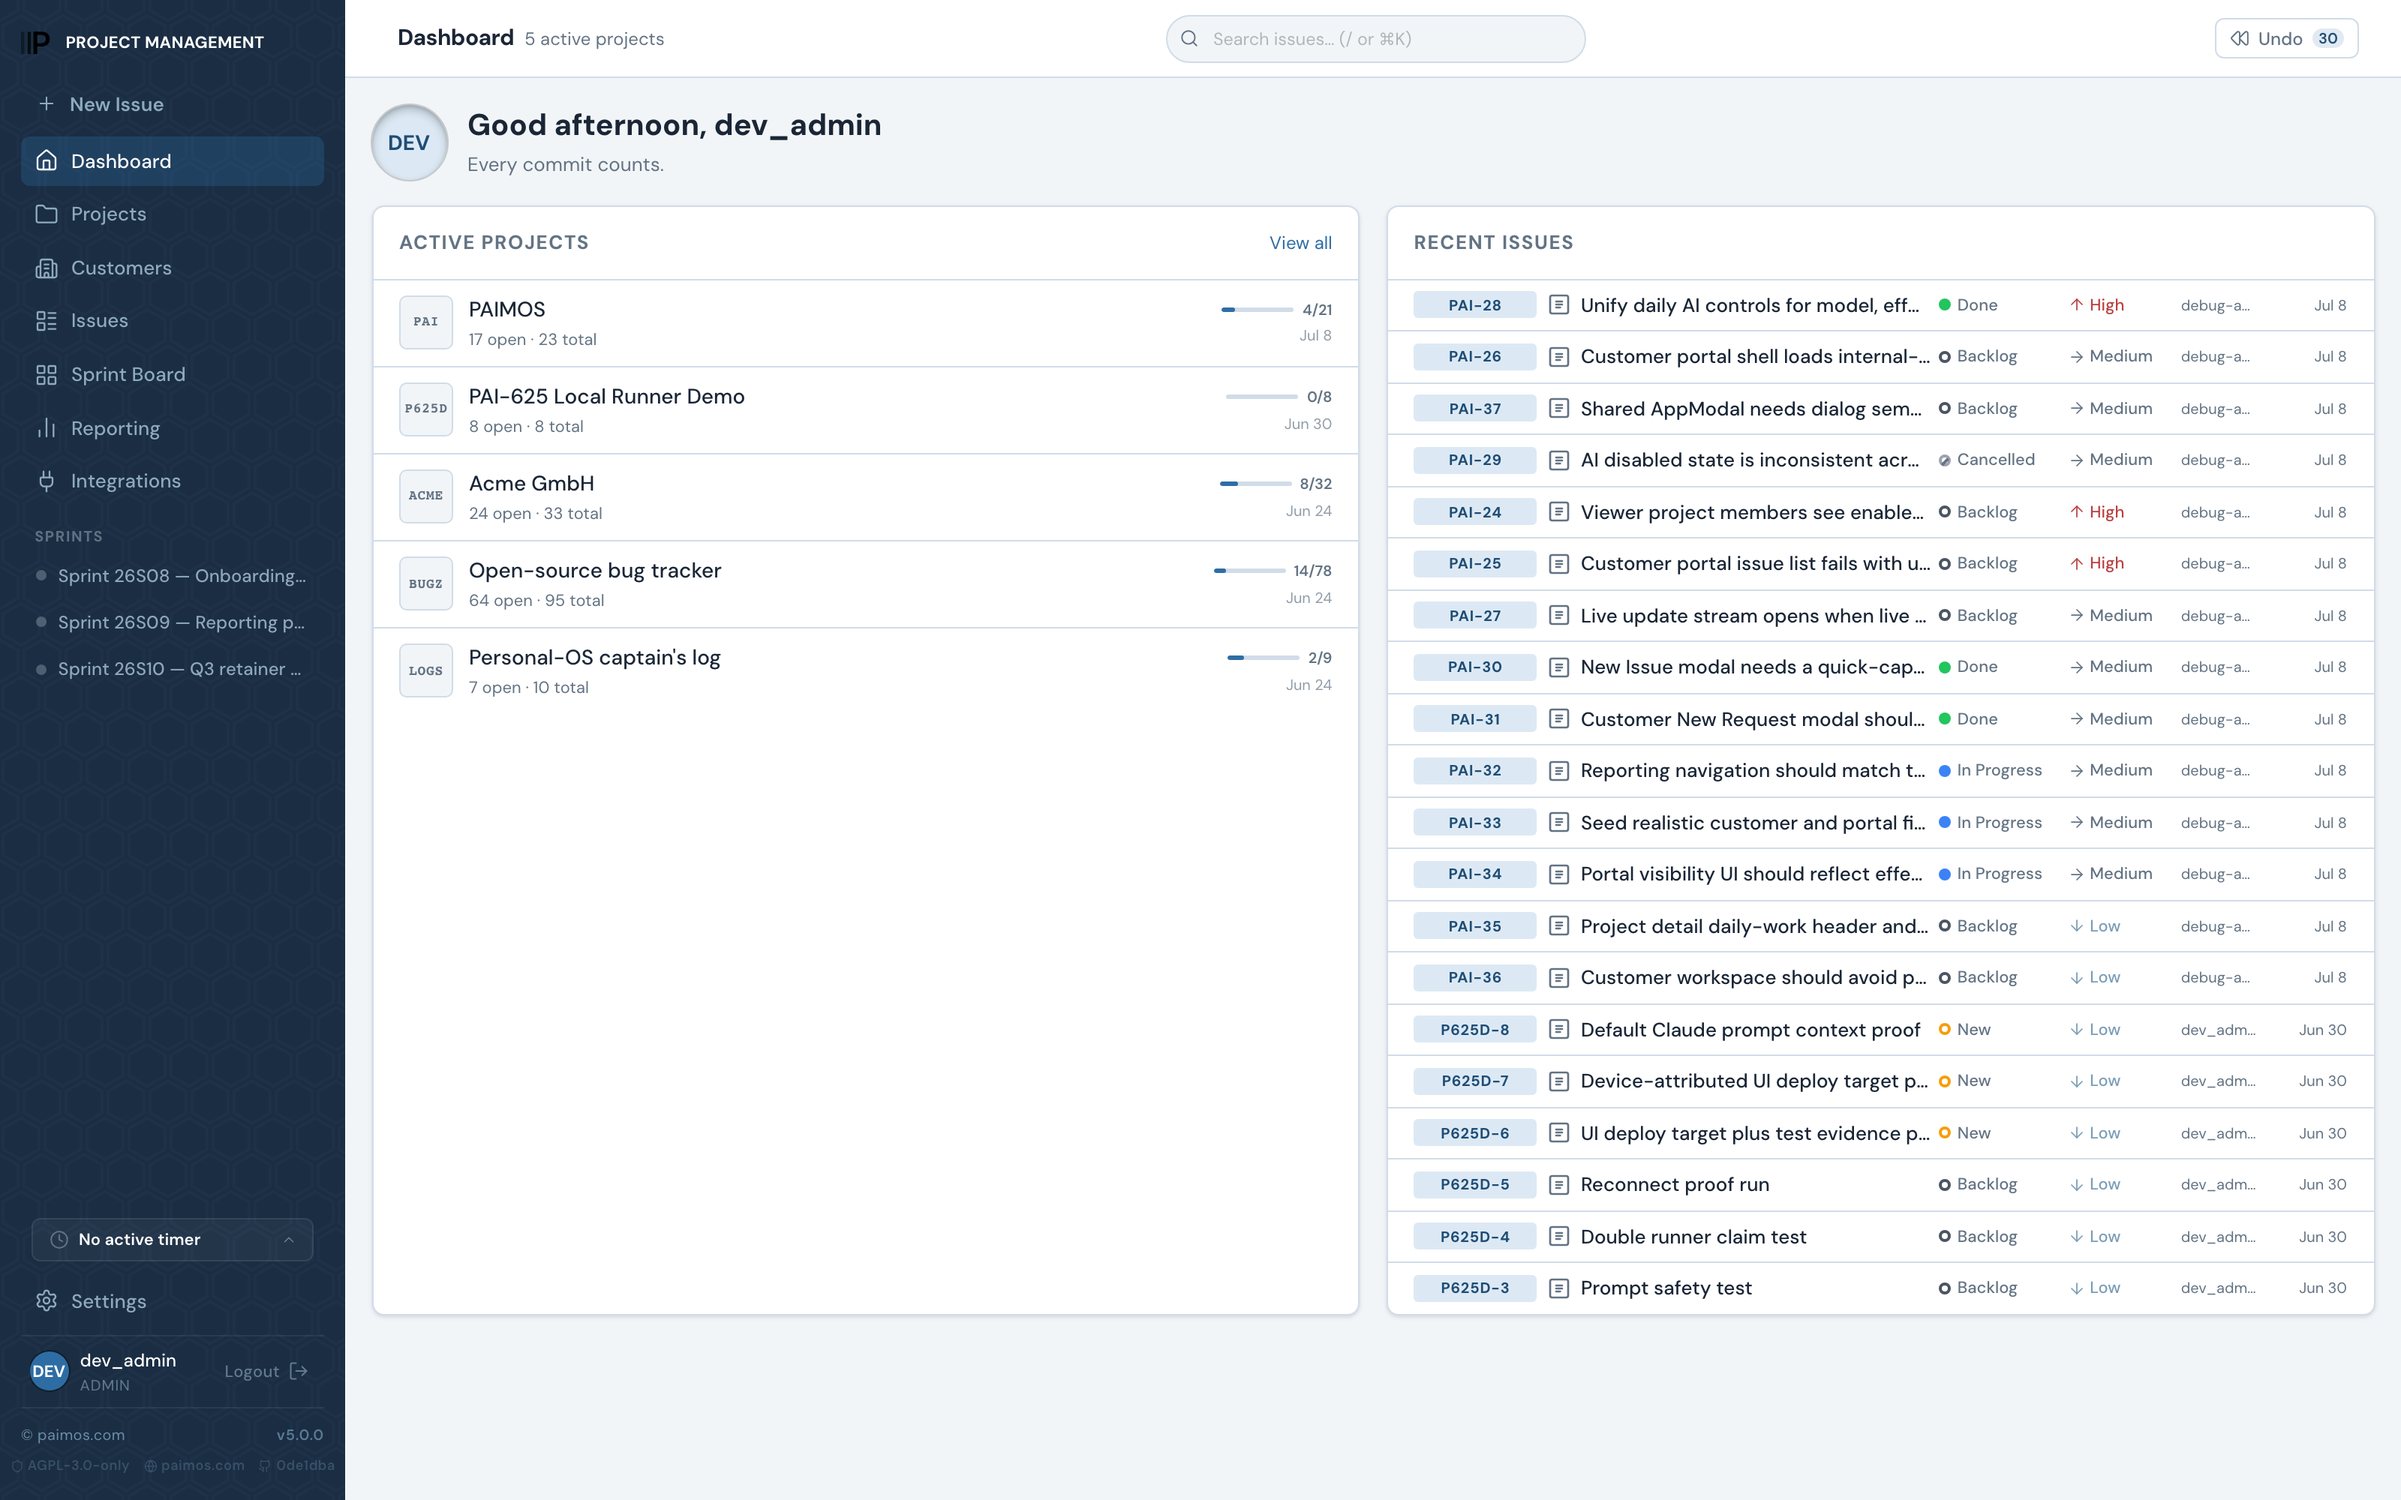
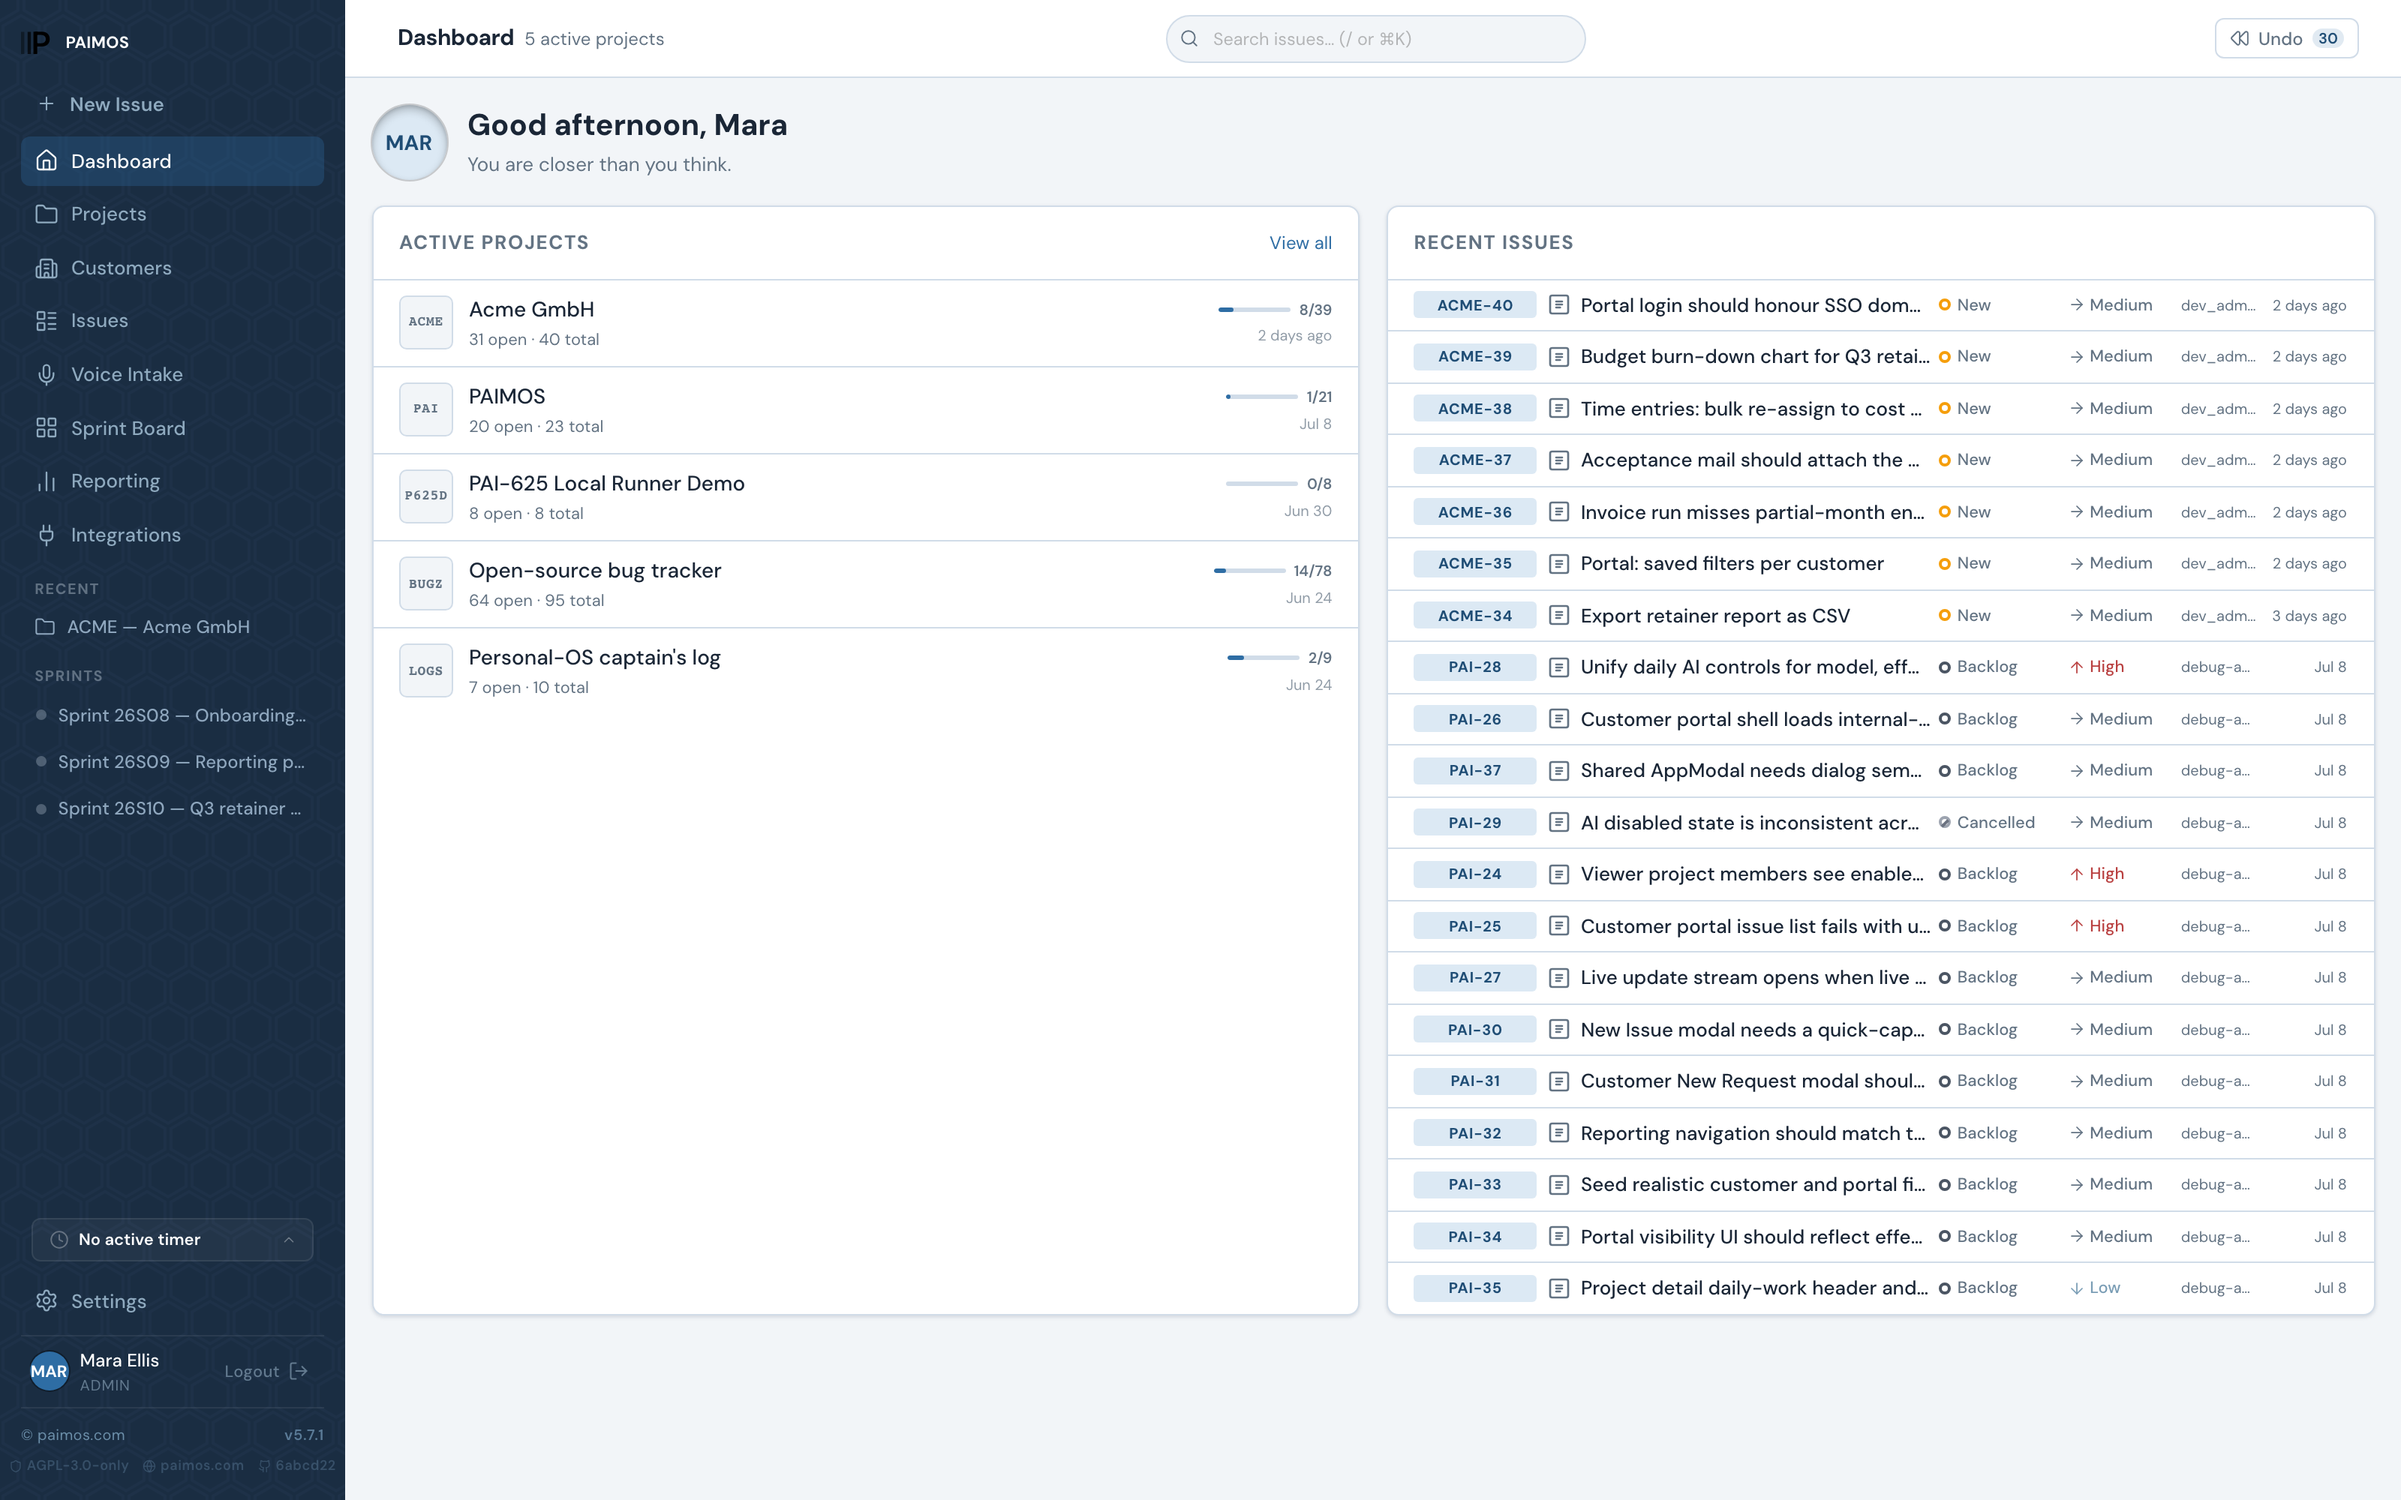
paimos: refresh product captures to v5.7.1 + add the voice-intake view (#2)
* paimos: refresh product captures to v5.7.1 + add the voice-intake view

The product surface still showed v5.0.0-era captures and never showed
Voice Intake at all — the entire 5.x story was invisible on the page.

All five captures are re-shot from the local seeded demo workspace at
1600x1000 @2x with dev chrome hidden (runbook #3594; captures never come
from a live instance). Provenance captions bumped v5.0.0 -> v5.7.1.

New lead view: the Voice Intake workbench, showing a live specification
with the impact analysis, understanding check and ticket preview beside
it — the thing that actually distinguishes the 5.x line.

The sprint-board capture is also finally populated: dev fixtures seeded
sprint membership backwards, so that board had been empty in every dev
environment (fixed upstream in inspr-at/paimos#76).

* paimos: copy now names voice intake (PAI-746)

941 lines of product copy never mentioned the 5.x line's headline
capability. Adds it in the two places a reader actually looks:

- capability grid: 'Voice intake — speak an idea, get a reviewable
  spec', with the plain-words card for non-technical readers;
- the Plan step of the model section, which now starts where the work
  actually starts — 'start by talking, or start by typing' — rather
  than assuming a ticket already exists.

Claim backed by a matrix row in inspr-at/paimos (docs/claim-matrix.md),
per the rule that public claims carry evidence or do not ship.
[…]

diff --git a/web/src/content/paimos.ts b/web/src/content/paimos.ts
@@ -48,6 +48,14 @@ export const paimosContent = {
       "The same grid, in plain words: what each promise means for your company, your budget and your legal team — no IT dictionary required. Flip any card.",
     items: [
       {
+        label: "Voice intake",
+        icon: "mic",
+        group: "ai",
+        note: "Talk through a change; the specification, its impact on existing work and the draft ticket assemble as you speak, then you edit and file it.",
+        noteEli10:
+          "You can just say what you want out loud. It writes the description for you, shows what else it touches, and turns it into a proper task you can correct before saving.",
+      },
+      {
         label: "Enterprise-capable",
         icon: "layers-3",
         group: "ops",
@@ -382,8 +390,8 @@ export const paimosContent = {
         visual: { x: 24, y: 18 },
         icon: "folder-kanban",
         body:
-          "Structure work as epics, tickets and tasks. Add typed dependencies, sprints, releases, estimates, time and customer-facing delivery state.",
-        meta: "One hierarchy for human and agent work",
+          "Start by talking, or start by typing. Voice intake turns a spoken idea into a live specification with its impact on existing work beside it, and files the ticket when you are happy. From there: epics, tickets and tasks with typed dependencies, sprints, releases, estimates, time and customer-facing delivery state.",
+        meta: "From spoken intent to a filed ticket",
         signal: "Hierarchy, dependencies and delivery state",
         reference: {
           label: "Planning hierarchy",
